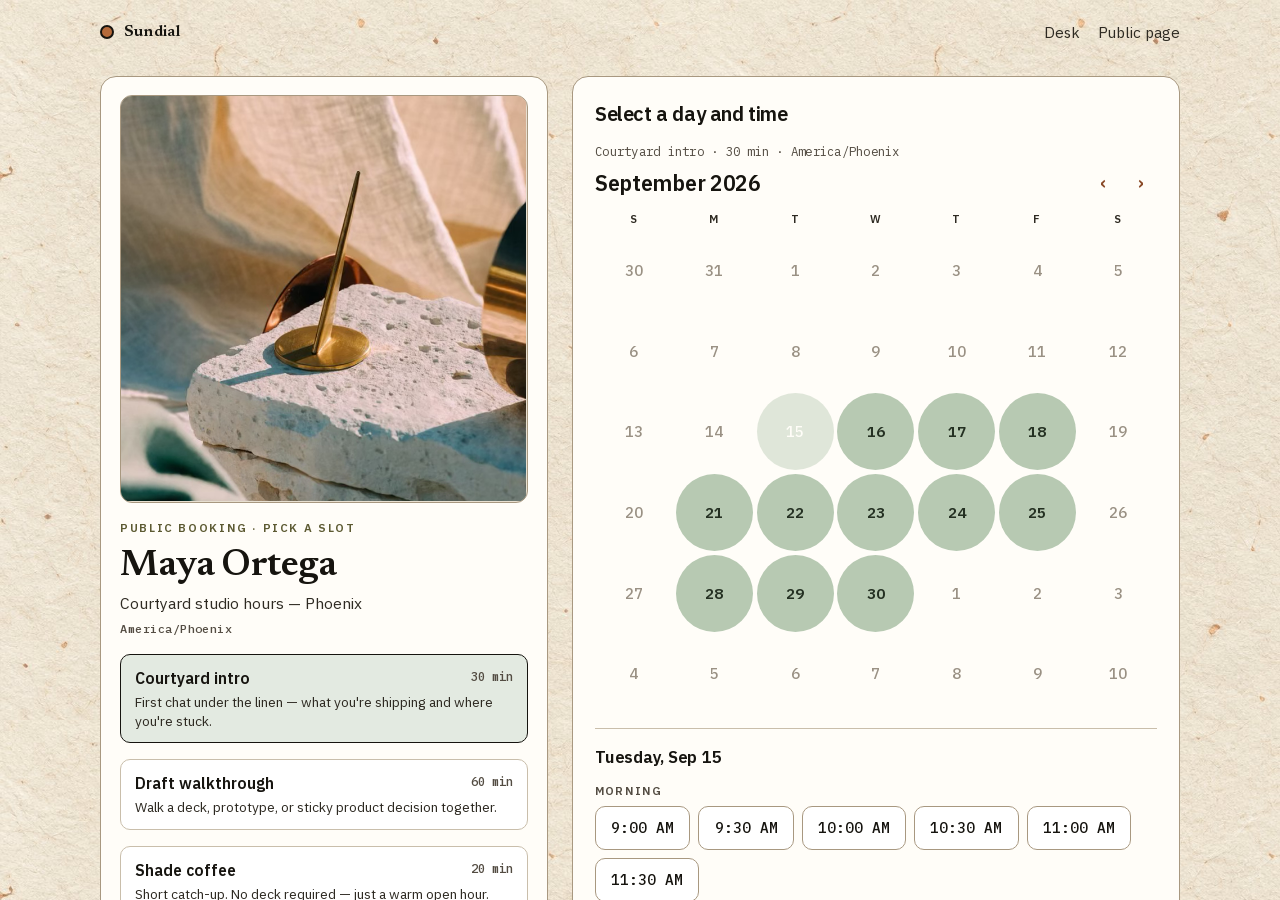
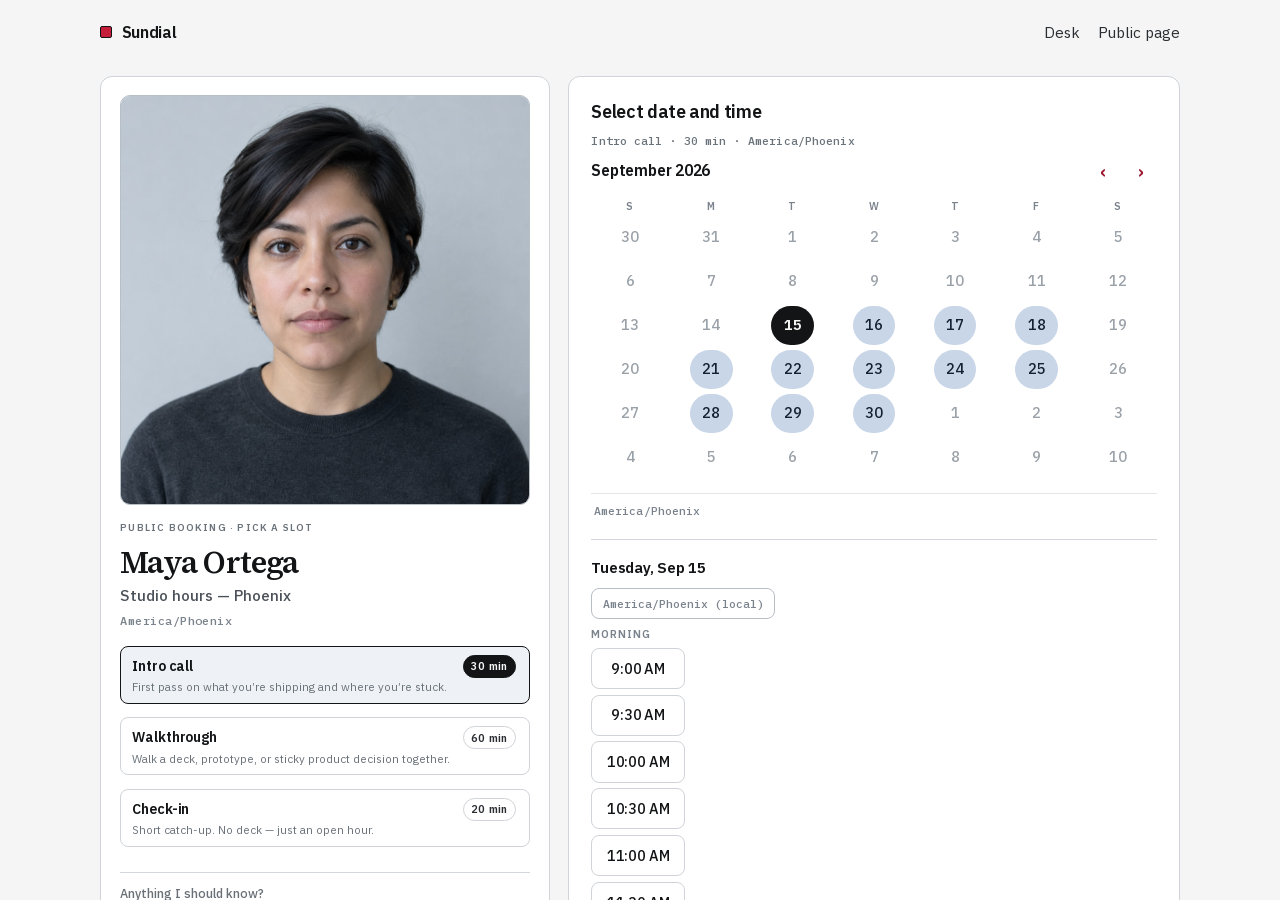
docs(gauntlet-r6): record PR #9, deploy, host-photo critic fix

diff --git a/gauntlet/workbench-r6.md b/gauntlet/workbench-r6.md
@@ -72,3 +72,10 @@ Bar comps: `shots-r6/bar-zcal-*.png` · baselines: `shots-r6/r0-baseline-*.png`
 - verdict: Hard flat field; pink/sage/emoji cheese gone; original zcal still wins SaaS blue polish + OAuth/media depth — Clearline honest closer on anti-cheese materials, not a beat.
 - commit: 66a95b7
 - bar A/B: yes (every 5th)
+
+
+## critic fix — host photo visible (empty grey slab)
+- files: src/app/globals.css, gauntlet/r6-css/r11-host-photo.css, src/components/BookingPage.tsx
+- shot: gauntlet/shots-r6/r11-host-photo-fix.png (no reduced-motion — critic path)
+- verdict: Photo opacity forced to 1; Maya contact-sheet returns; grey linen slab gone. Legacy Courtyard video-hide rule was the cause.
+- commit: f04a774
